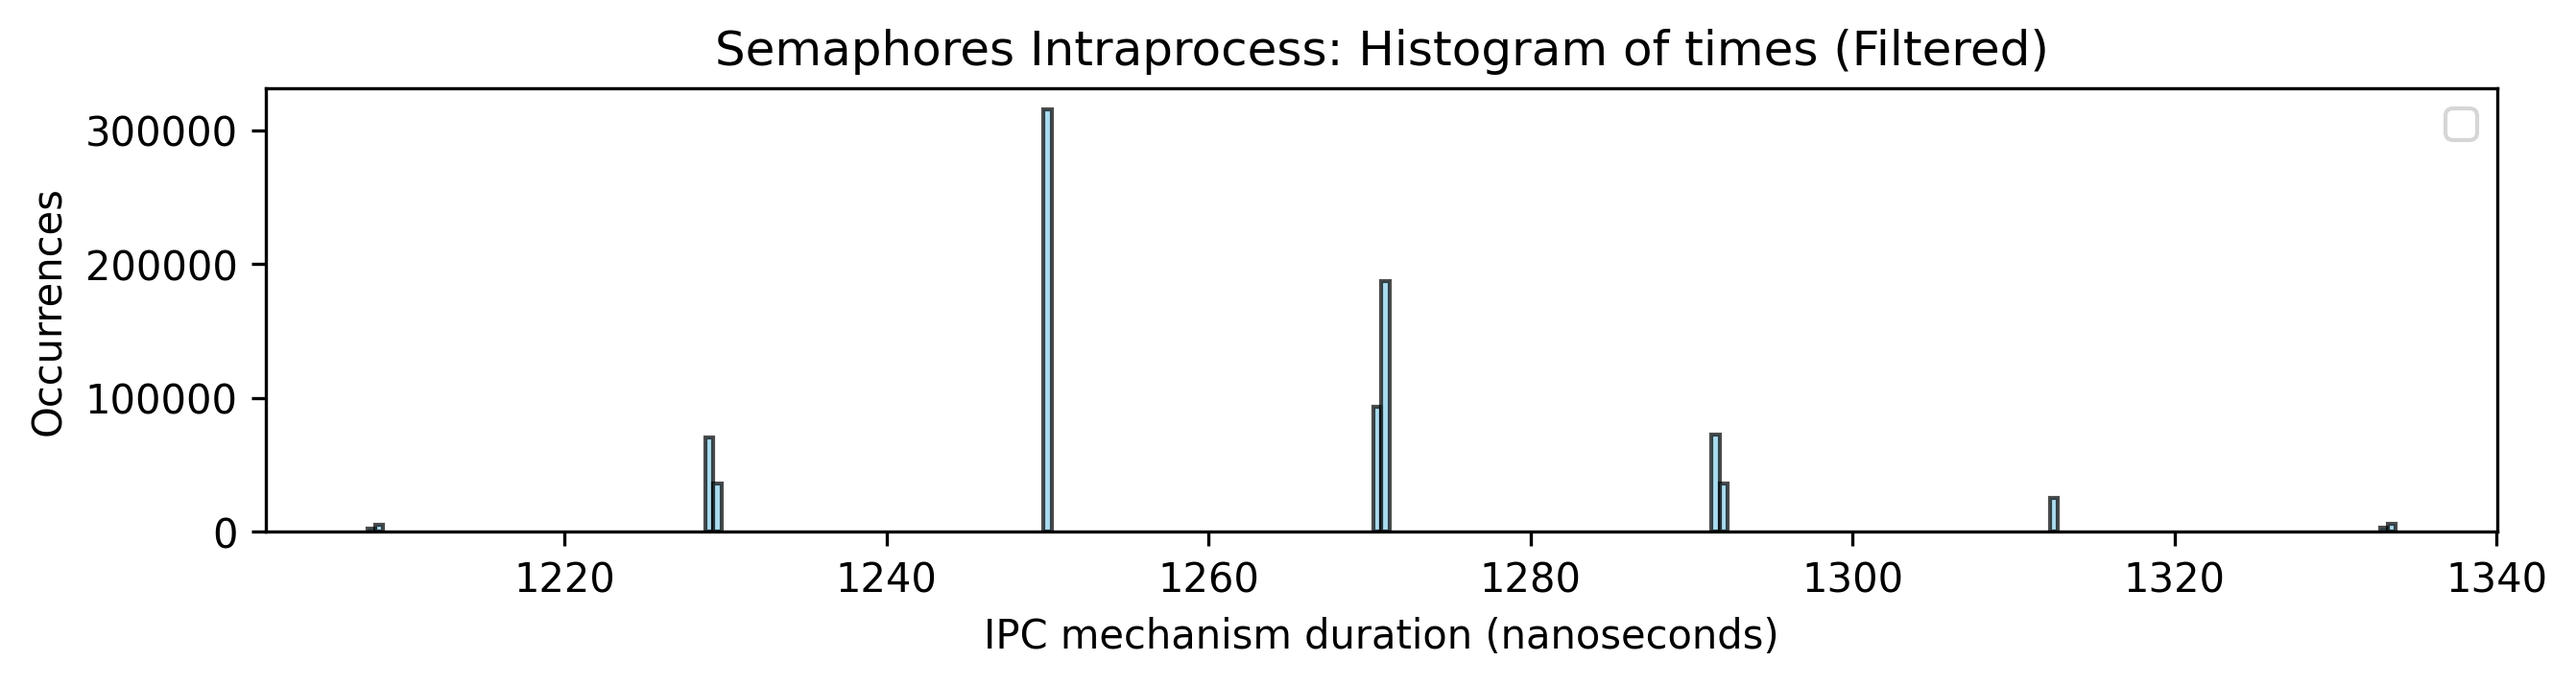
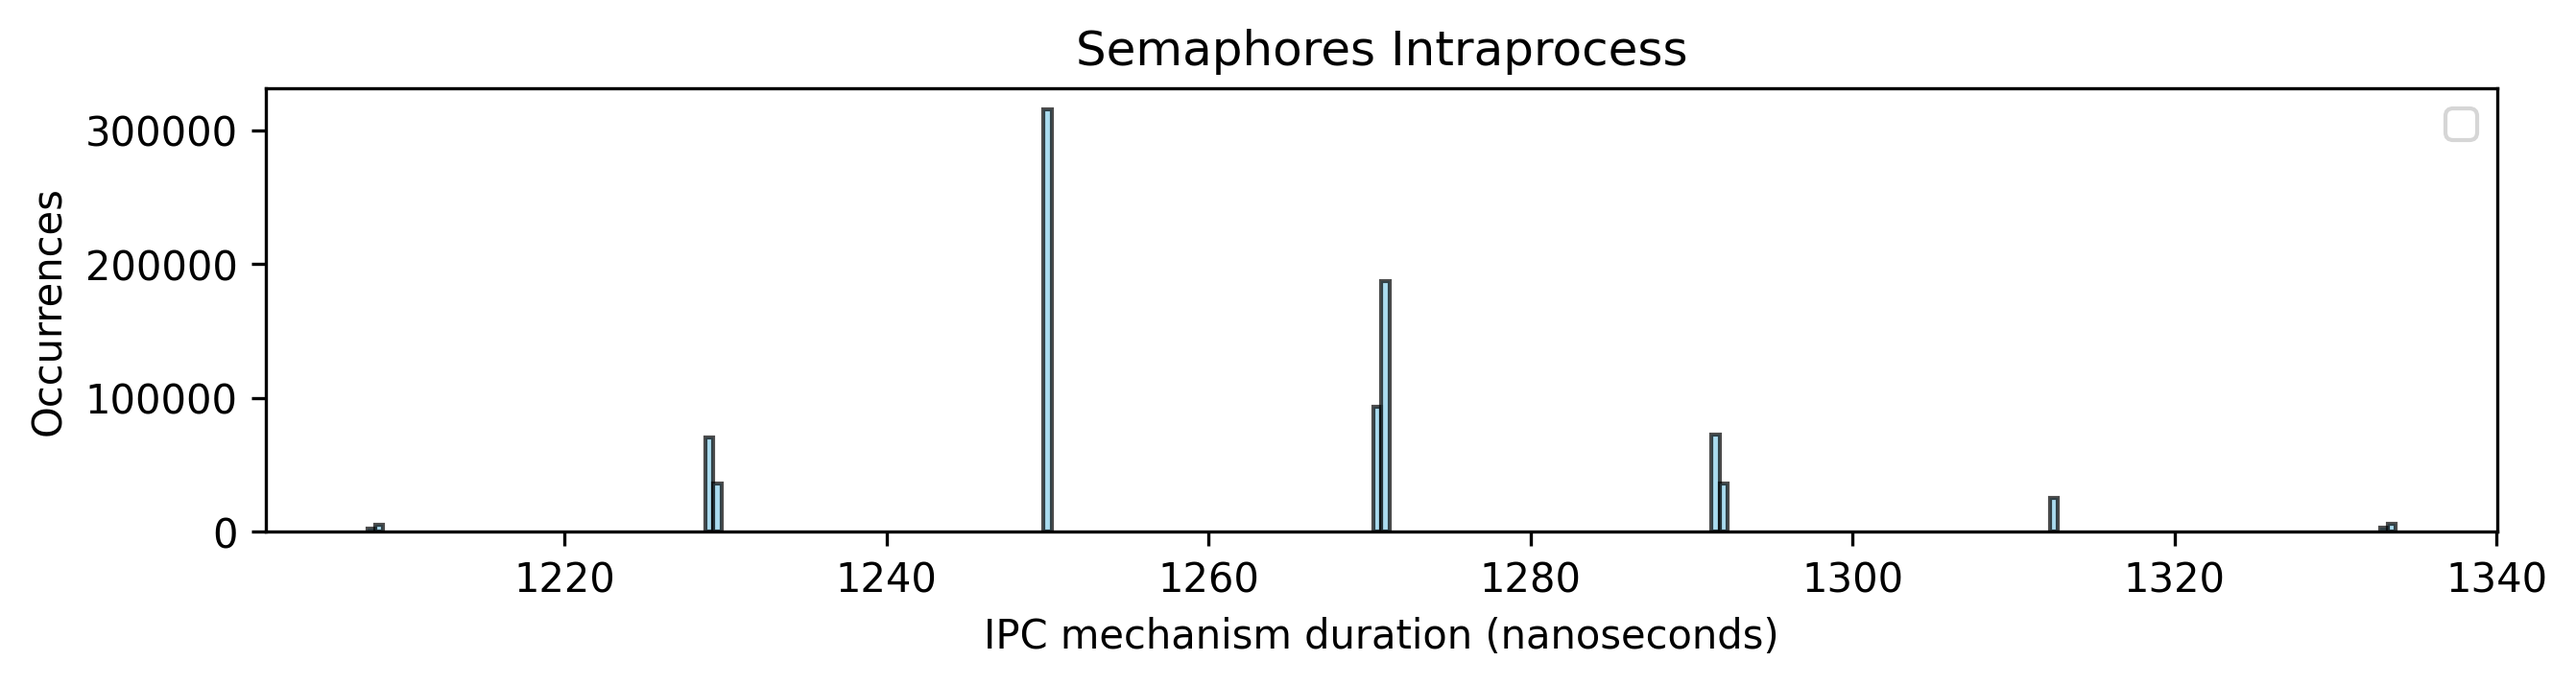
Update experiment result graphs

Changed region(s): [[0.2783, 0.0308, 0.804, 0.1232]]

diff --git a/OS2_Analysis/analysis.py b/OS2_Analysis/analysis.py
@@ -33,7 +33,7 @@ def analyze_data(file_name, experiment_name):
     plt.figure(figsize=(10,2))
     #plt.subplot(2, 1, 1)  # First subplot for the histogram
     plt.bar(x_values, y_values, width=0.5, color='skyblue', edgecolor='black', alpha=0.7)
-    plt.title(experiment_name+': Histogram of times (Filtered)')
+    plt.title(experiment_name)
     plt.xlabel('IPC mechanism duration (nanoseconds)')
     plt.ylabel('Occurrences')
 

diff --git a/ReadMe.md b/ReadMe.md
@@ -16,7 +16,7 @@ Es gibt noch eine optimierte Version des Spinlocks mit nidrigeren Zeiten:
 # Compile the program
 g++ -std=c++17 -pthread -o out/better_spinlock better_spinlock.cpp
 
-# Run the program
+# Run the programx^
 ./out/better_spinlock
 ```
 ---
